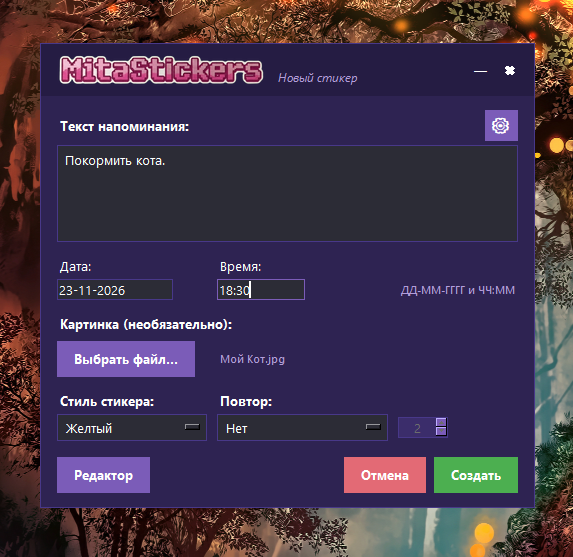
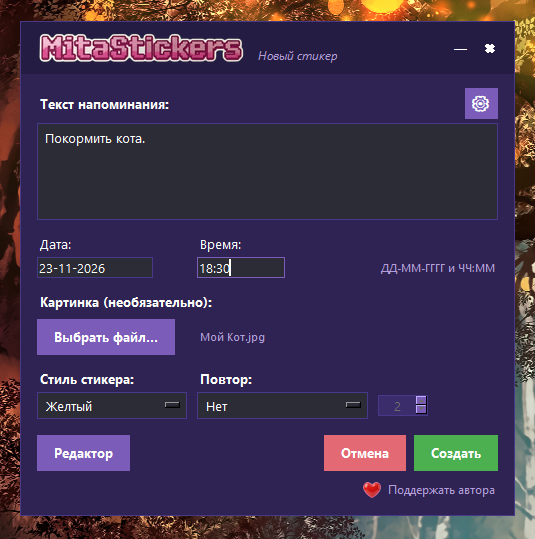
Кнопка пульсирует.
- Сделал чтоб сердечко на кнопке поддержки слегка увеличивалось, при наведении.
- Сменил скриншоты README.

diff --git a/ui/main_window.py b/ui/main_window.py
@@ -275,6 +275,8 @@ class MainWindow(tk.Toplevel):
 
         # Ненавязчивая ссылка-кнопка поддержки автора
         self._heart_photo = self._load_heart(16)
+        self._heart_photo_hover = self._load_heart(20)
+
         if self._heart_photo is not None:
             support = tk.Label(
                 body, text="  " + _("Поддержать автора"), image=self._heart_photo, compound="left",
@@ -287,8 +289,19 @@ class MainWindow(tk.Toplevel):
             )
         support.grid(row=9, column=0, columnspan=3, sticky="e", pady=(8, 0))
         support.bind("<Button-1>", lambda event: self._open_support())
-        support.bind("<Enter>", lambda e: support.configure(fg=t["green"], font=(FONT, 9, "bold")))
-        support.bind("<Leave>", lambda e: support.configure(fg=t["muted"], font=(FONT, 9)))
+
+        def on_support_enter(e):
+            if self._heart_photo_hover is not None:
+                support.configure(image=self._heart_photo_hover)
+            support.configure(fg=t["green"], font=(FONT, 9, "bold"))
+
+        def on_support_leave(e):
+            if self._heart_photo is not None:
+                support.configure(image=self._heart_photo)
+            support.configure(fg=t["muted"], font=(FONT, 9))
+
+        support.bind("<Enter>", on_support_enter)
+        support.bind("<Leave>", on_support_leave)
 
     def _open_support(self):
         try:
